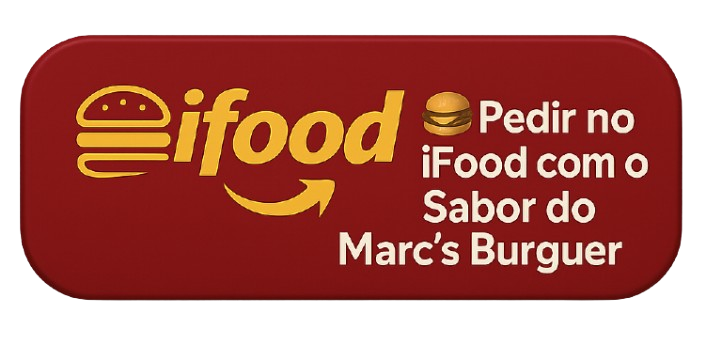
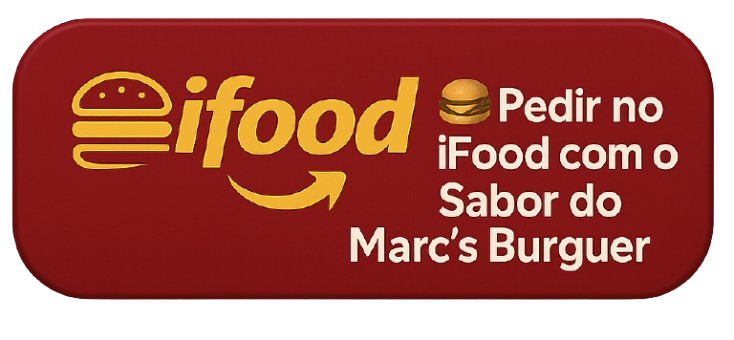
chore: atualização genérica da imagem do botão de pedido personalizado iFood + Marc’s Burguer nas páginas

Changed region(s): [[0.0, 0.0294, 0.9751, 0.8824]]

diff --git a/combo-picanha.html b/combo-picanha.html
@@ -116,18 +116,18 @@
            Ideal para encontros familiares, eventos casuais, jantares especiais ou qualquer ocasião que peça um lanche de alta qualidade, sabor marcante e ingredientes excepcionais.
         </p>
 
-        <!-- 📲 Botão de orçamento via WhatsApp -->
-        <div class="chamada-final">
-          <h3>Faça seu Pedido!</h3>
-          <p>Garanta agora seu Combo Picanha Premium com entrega rápida e segura pelo nosso parceiro oficial:</p>
-          <a href="https://www.ifood.com.br/delivery/marcs-burguer?produto=picanha-premium"
-           target="_blank"
-           rel="noopener noreferrer"
-           class="botao-acao"
-           aria-label="Pedir Combo Picanha Premium via iFood">
-          🍔 Pedir Combo Picanha no iFood
-        </a>
-      </div>
+        <div class="botao-ifood-container">
+    <a href="https://www.ifood.com.br/delivery/marcs-burguer"
+       target="_blank"
+       rel="noopener noreferrer"
+       aria-label="Peça agora no iFood com o sabor do Marc’s Burguer">
+      <img src="assets/images/botao-ifood.png"
+           alt="Botão de pedido personalizado Marc’s Burguer via iFood"
+           class="botao-ifood-img"
+           loading="lazy" />
+  </a>
+
+  </div>
     </section>
   </main>
 

diff --git a/combo-frango.html b/combo-frango.html
@@ -118,18 +118,18 @@
            Ideal para refeições rápidas, encontros descontraídos, almoço leve e saudável ou jantares saborosos que combinam praticidade e qualidade artesanal.
         </p>
 
-        <!-- 📲 CTA Especializado via iFood -->
-      <div class="chamada-final">
-        <h3>Bateu a fome?</h3>
-        <p>Peça agora mesmo o seu Combo Frango Empanado com entrega rápida e prática pelo nosso parceiro oficial:</p>
-        <a href="https://www.ifood.com.br/delivery/marcs-burguer?produto=frango-empanado"
-           target="_blank"
-           rel="noopener noreferrer"
-           class="botao-acao"
-           aria-label="Pedir Combo Frango Empanado via iFood">
-          🍗 Pedir Combo Frango no iFood
-        </a>
-      </div>
+       <div class="botao-ifood-container">
+    <a href="https://www.ifood.com.br/delivery/marcs-burguer"
+       target="_blank"
+       rel="noopener noreferrer"
+       aria-label="Peça agora no iFood com o sabor do Marc’s Burguer">
+      <img src="assets/images/botao-ifood.png"
+           alt="Botão de pedido personalizado Marc’s Burguer via iFood"
+           class="botao-ifood-img"
+           loading="lazy" />
+  </a>
+
+  </div>
     </section>
 
   </main>

diff --git a/combo-xtudo.html b/combo-xtudo.html
@@ -94,17 +94,18 @@
       </p>
 
      <!-- 📲 CTA Especializado via iFood -->
-      <div class="chamada-final">
-        <h3>Bateu a fome?</h3>
-        <p>Garanta agora mesmo seu Combo X-Tudo com entrega rápida e segura através do nosso parceiro oficial:</p>
-        <a href="https://www.ifood.com.br/delivery/marcs-burguer?produto=xtudo-explosivo"
-           target="_blank"
-           rel="noopener noreferrer"
-           class="botao-acao"
-           aria-label="Pedir Combo X-Tudo Explosão de Sabor via iFood">
-          🍔 Pedir Combo X-Tudo no iFood
-        </a>
-      </div>
+      <div class="botao-ifood-container">
+    <a href="https://www.ifood.com.br/delivery/marcs-burguer"
+       target="_blank"
+       rel="noopener noreferrer"
+       aria-label="Peça agora no iFood com o sabor do Marc’s Burguer">
+      <img src="assets/images/botao-ifood.png"
+           alt="Botão de pedido personalizado Marc’s Burguer via iFood"
+           class="botao-ifood-img"
+           loading="lazy" />
+  </a>
+
+  </div>
     </section>
   </main>
 
